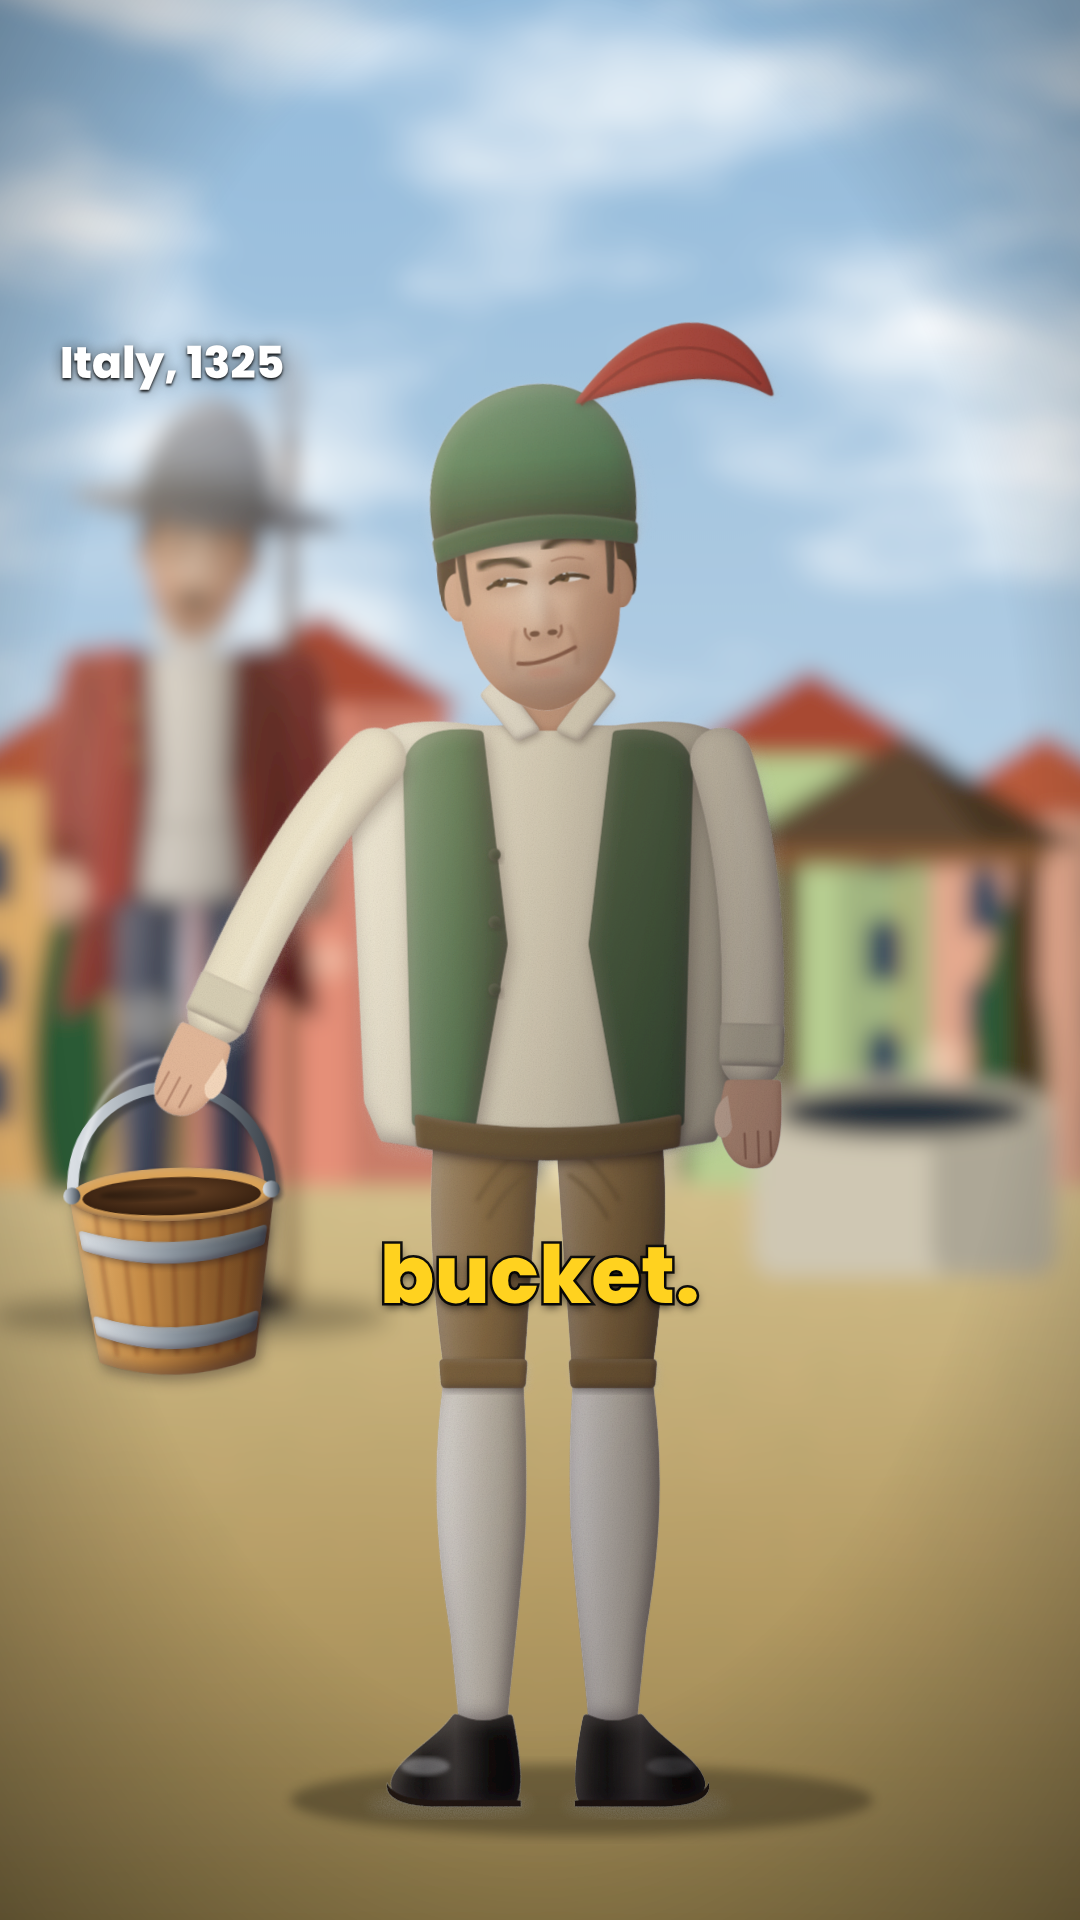
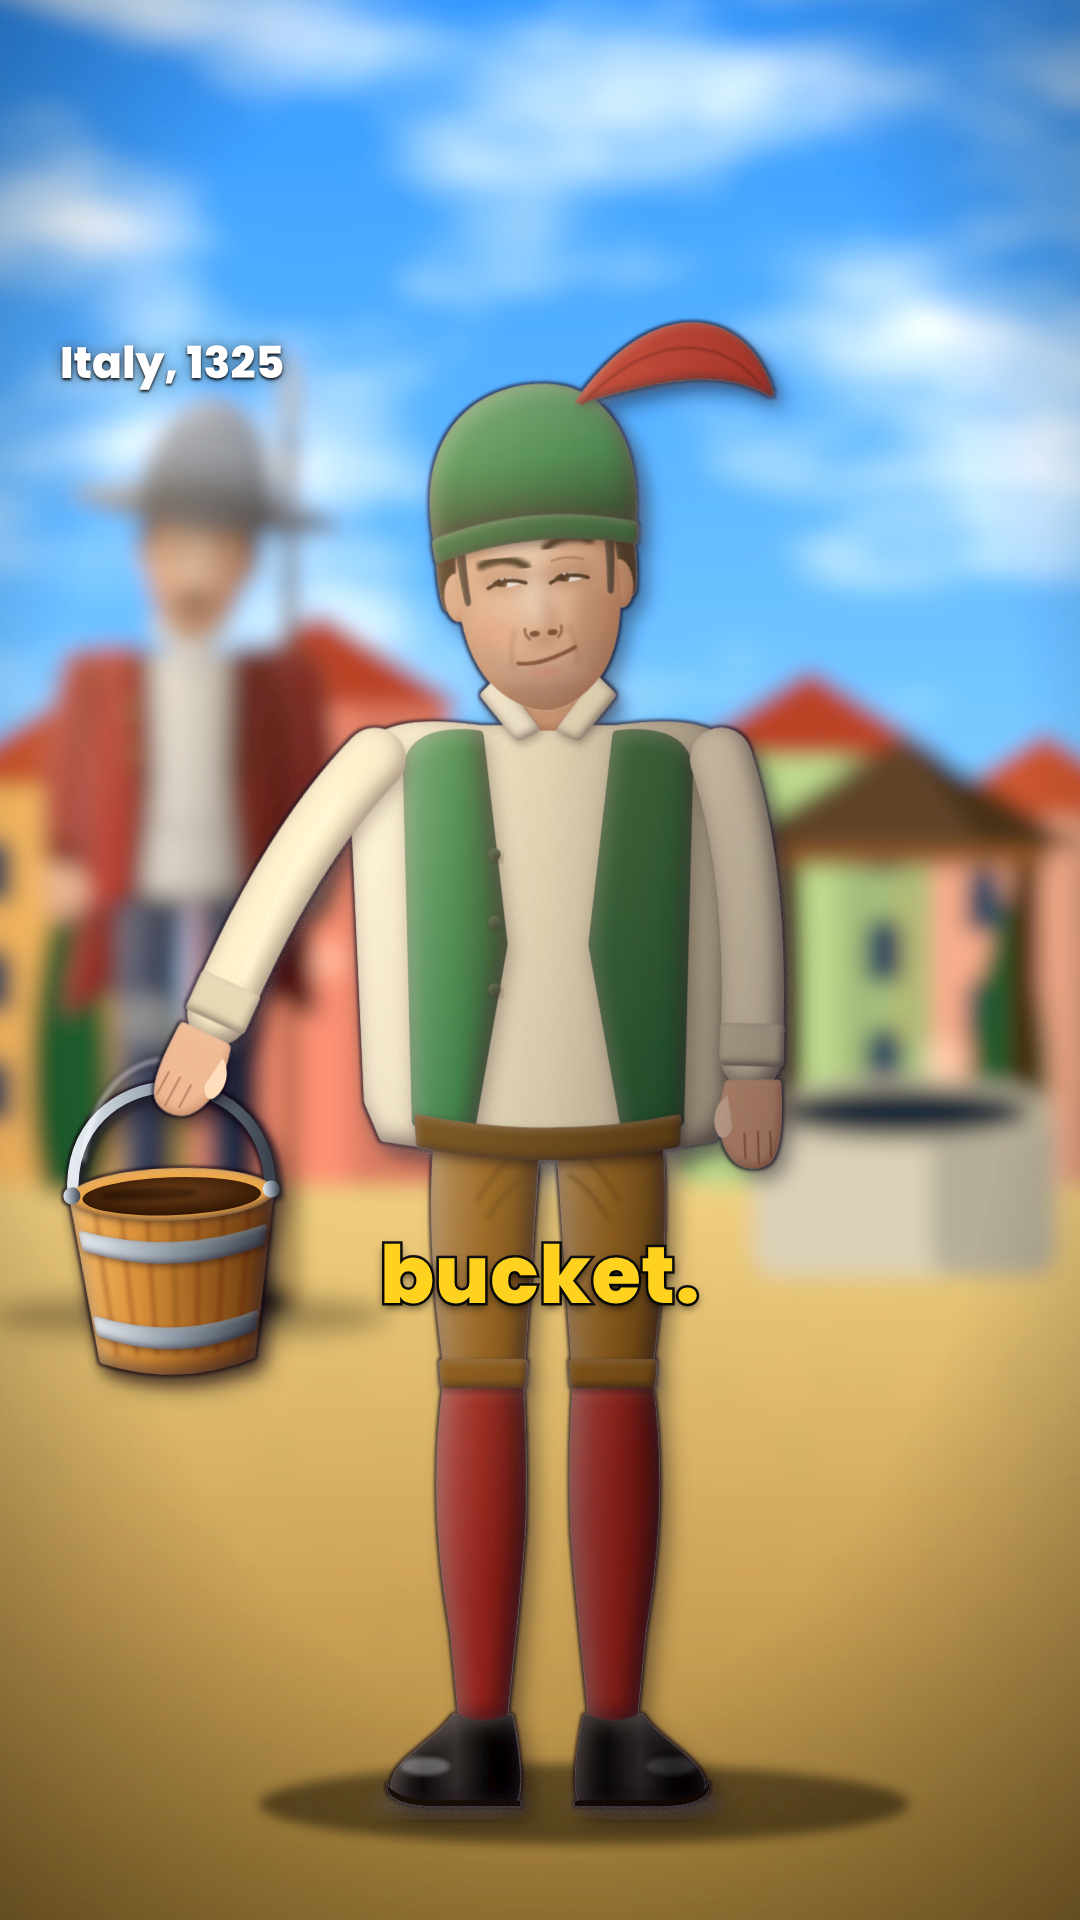
Style frame v2: richer colour, stronger rim shading, edge shadow, coloured hose
Engine copy: darker/lighter rim on every painted piece, new edgeSh filter (thin dark
contour + cast shadow) for whole figures and props, per-person stocking colour.
Frame: saturated sky/ground, red hose, colour grade on the layer.

Claude-Session: https://claude.ai/code/session_012V6MhPJGy6X8fHMFUuGPUo

diff --git a/bucketwar/painted/engine.js b/bucketwar/painted/engine.js
@@ -89,10 +89,17 @@ let EXTRA_DEFS = '';
 const addDefs = s => { EXTRA_DEFS += s; };
 function sharedDefs() {
   const tones = Object.entries(SKIN_TONES).map(([k, s]) =>
-    pieceFilter(`pk_${k}`, { rim: 8, dark: s.rim, darkOp: .32, lightOp: .14 }) + pieceFilter(`pks_${k}`, { rim: 3.5, dark: s.rim, darkOp: .3, lightOp: .12 })).join('');
+    pieceFilter(`pk_${k}`, { rim: 8, dark: s.rim, darkOp: .5, lightOp: .2 }) + pieceFilter(`pks_${k}`, { rim: 4, dark: s.rim, darkOp: .5, lightOp: .2 })).join('');
   return `<defs>
-  ${pieceFilter('pc', { rim: 8 })}${pieceFilter('pcl', { rim: 8, lift: true })}${pieceFilter('pcs', { rim: 3.5 })}${pieceFilter('pcsl', { rim: 3.5, lift: true })}
-  ${pieceFilter('pclA', { rim: 8, lift: true, region: [-340, -1320, 680, 820] })}${pieceFilter('pcsA', { rim: 3.5, region: [-340, -1320, 680, 820] })}${tones}
+  ${pieceFilter('pc', { rim: 9, darkOp: .68, lightOp: .30 })}${pieceFilter('pcl', { rim: 9, lift: true, darkOp: .68, lightOp: .30 })}${pieceFilter('pcs', { rim: 4, darkOp: .66, lightOp: .28 })}${pieceFilter('pcsl', { rim: 4, lift: true, darkOp: .66, lightOp: .28 })}
+  ${pieceFilter('pclA', { rim: 9, lift: true, darkOp: .68, lightOp: .30, region: [-340, -1320, 680, 820] })}${pieceFilter('pcsA', { rim: 4, darkOp: .66, lightOp: .28, region: [-340, -1320, 680, 820] })}${tones}
+  <filter id="edgeSh" x="-20%" y="-12%" width="140%" height="140%" color-interpolation-filters="sRGB">
+    <feMorphology in="SourceAlpha" operator="dilate" radius="2.4" result="d"/><feGaussianBlur in="d" stdDeviation="1.7" result="db"/>
+    <feFlood flood-color="#140a18" flood-opacity=".7"/><feComposite in2="db" operator="in" result="edge"/>
+    <feGaussianBlur in="SourceAlpha" stdDeviation="10" result="sb"/><feOffset in="sb" dx="10" dy="12" result="so"/>
+    <feFlood flood-color="#0a0510" flood-opacity=".42"/><feComposite in2="so" operator="in" result="drop"/>
+    <feMerge><feMergeNode in="drop"/><feMergeNode in="edge"/><feMergeNode in="SourceGraphic"/></feMerge>
+  </filter>
   <filter id="soft"><feGaussianBlur stdDeviation="6"/></filter>
   <filter id="soft2"><feGaussianBlur stdDeviation="2"/></filter>
   <filter id="tex" x="-5%" y="-5%" width="110%" height="110%">
@@ -247,6 +254,7 @@ function person(o = {}, e = {}, v = (typeof window !== 'undefined' && window.VAR
     ${linG(g('pants'), [lighten(col.pants, .25), col.pants, darken(col.pants, .25)])}
     ${linG(g('robe'), [lighten(col.robe, .16), col.robe, darken(col.robe, .45)])}
     ${linG(g('trim'), [lighten(col.trim, .35), col.trim, darken(col.trim, .35)])}
+    ${o.stock ? linG(g('stock'), [lighten(o.stock, .22), o.stock, darken(o.stock, .34)]) : ''}
     <clipPath id="${g('face')}"><path d="${FACE}"/></clipPath>
   </defs>`;
 
@@ -267,7 +275,7 @@ function person(o = {}, e = {}, v = (typeof window !== 'undefined' && window.VAR
       <path d="${mx(k, 'M -100 -362 L -98 -335 C -106 -280 -104 -220 -92 -150 C -88 -120 -86 -100 -84 -86 C -100 -60 -132 -44 -140 -22 C -146 -6 -128 4 -100 2 L -28 2 C -20 -10 -26 -50 -34 -86 C -30 -130 -18 -200 -16 -260 C -14 -300 -16 -320 -18 -335 L -16 -362 Z')}" fill="url(#bootG)" filter="url(#pc)"/>
       <path d="${mx(k, 'M -84 -320 C -92 -250 -90 -180 -80 -112')}" stroke="#fff" stroke-width="8" fill="none" opacity="${k < 0 ? .2 : .1}" filter="url(#soft2)"/>
       <path d="${mx(k, 'M -106 -398 Q -60 -420 -10 -398 L -14 -334 Q -60 -350 -102 -334 Z')}" fill="url(#cuffG)" filter="url(#pcsl)"/>` : `
-      <path d="${mx(k, 'M -94 -372 C -104 -300 -102 -230 -88 -150 C -84 -110 -82 -90 -80 -70 L -36 -70 C -34 -100 -26 -160 -20 -240 C -18 -300 -20 -340 -22 -372 Z')}" fill="url(#stockG)" filter="url(#pc)"/>
+      <path d="${mx(k, 'M -94 -372 C -104 -300 -102 -230 -88 -150 C -84 -110 -82 -90 -80 -70 L -36 -70 C -34 -100 -26 -160 -20 -240 C -18 -300 -20 -340 -22 -372 Z')}" fill="${o.stock ? u('stock') : 'url(#stockG)'}" filter="url(#pc)"/>
       <path d="${mx(k, 'M -98 -392 L -18 -392 L -20 -366 L -96 -366 Z')}" fill="${darken(col.pants, .08)}" filter="url(#pcsl)"/>${shoe}`;
     return `${groundShadow}
       <path d="${mx(k, 'M -100 -608 C -110 -540 -104 -450 -92 -372 L -22 -372 C -16 -450 -10 -540 -6 -604 Z')}" fill="${u('pants')}" filter="url(#pc)"/>

diff --git a/bucketwar/painted/project.js b/bucketwar/painted/project.js
@@ -2,8 +2,8 @@
 // Beat shown: "…soldiers stole a bucket."  The Modena soldier walks off with the bucket while the Bologna guard sleeps.
 
 // ---- cast ----
-const THIEF = { skin: 'light', hair: 'short', hairColor: 'brown', beard: 'stubble', hat: 'feathercap', hatColor: '#2f6b46', top: 'vest',
-  coat: '#3f6a45', under: '#e6dcbf', legs: 'breeches', pants: '#8a6a3f', foot: 'shoes', eyeColor: '#5a3d22', id: 'th' };
+const THIEF = { skin: 'light', hair: 'short', hairColor: 'brown', beard: 'stubble', hat: 'feathercap', hatColor: '#2a7a48', top: 'vest',
+  coat: '#2f7d49', under: '#f1e4c2', legs: 'breeches', pants: '#a1702f', stock: '#a8372f', foot: 'shoes', eyeColor: '#5a3d22', id: 'th' };
 const GUARD = { skin: 'light', hair: 'short', hairColor: 'brown', beard: 'mustache', hat: 'kettle', hatColor: '#8d98a5', top: 'jacket',
   coat: '#b3322f', under: '#efe8d8', legs: 'trousers', pants: '#3f4a63', foot: 'shoes', eyeColor: '#3d5a80', id: 'gd' };
 
@@ -47,7 +47,7 @@ const spear = (x, y, len) => `<rect x="${x - 6}" y="${y - len}" width="12" heigh
 
 function village(preset = 'day', blur = 'dof') {
   const h = 1180;
-  return background({ preset, horizon: h, blur, trees: true, grassOp: .22, overrides: { ground: ['#d8c28f', '#b99d66', '#8d7747'] },
+  return background({ preset, horizon: h, blur, trees: true, grassOp: .2, overrides: { sky: ['#3d8fe6', '#8fcdf6', '#eaf5f2'], far: '#5f9467', near: '#2f6e36', ground: ['#e6c98a', '#c4a064', '#94763f'] },
     props: `${houseRow(h + 6)}${cypress(70, h + 14, 330)}${cypress(1010, h + 14, 300)}
       <g transform="translate(905 ${h + 96})">${wellSVG(.66)}</g>
       <g>${spear(290, h + 130, 880)}<ellipse cx="190" cy="${h + 136}" rx="200" ry="24" fill="#000" opacity=".28" filter="url(#soft)"/>
@@ -61,10 +61,12 @@ function heroFrame() {
   // the left fist (screen-left) hangs near local (-344,-654) when raised 26–30°; the bucket handle runs through it
   const hx = HERO_X - HERO_S * 336, hy = HERO_Y - HERO_S * 668;
   return village(window.PRESET || 'day') + `
-    <g transform="translate(${hx} ${hy + 150 * .95}) scale(.95)">${bucket(1, -2)}</g>
-    ${placePerson(HERO_X, HERO_Y, HERO_S, THIEF, pose, 0.4)}`;
+    <g filter="url(#edgeSh)"><g transform="translate(${hx} ${hy + 150 * .95}) scale(.95)">${bucket(1, -2)}</g></g>
+    <ellipse cx="${HERO_X + 36}" cy="${HERO_Y + 4}" rx="${290 * HERO_S}" ry="${36 * HERO_S}" fill="#000" opacity=".42" filter="url(#soft)"/>
+    <g filter="url(#edgeSh)"><g transform="translate(${HERO_X} ${HERO_Y}) scale(${HERO_S})"><g transform="${breathe(0.4)}">${lit(person(THIEF, pose))}</g></g></g>`;
 }
 
 window.STILLS = {
-  hero: () => showStill(heroFrame(), `<div class="capWord key">bucket.</div><div class="label" style="left:60px;top:330px">Italy, 1325</div>`),
+  hero: () => { showStill(heroFrame(), `<div class="capWord key">bucket.</div><div class="label" style="left:60px;top:330px">Italy, 1325</div>`);
+    document.getElementById('L2').style.filter = 'saturate(1.14) contrast(1.08) brightness(1.02)'; },
 };
